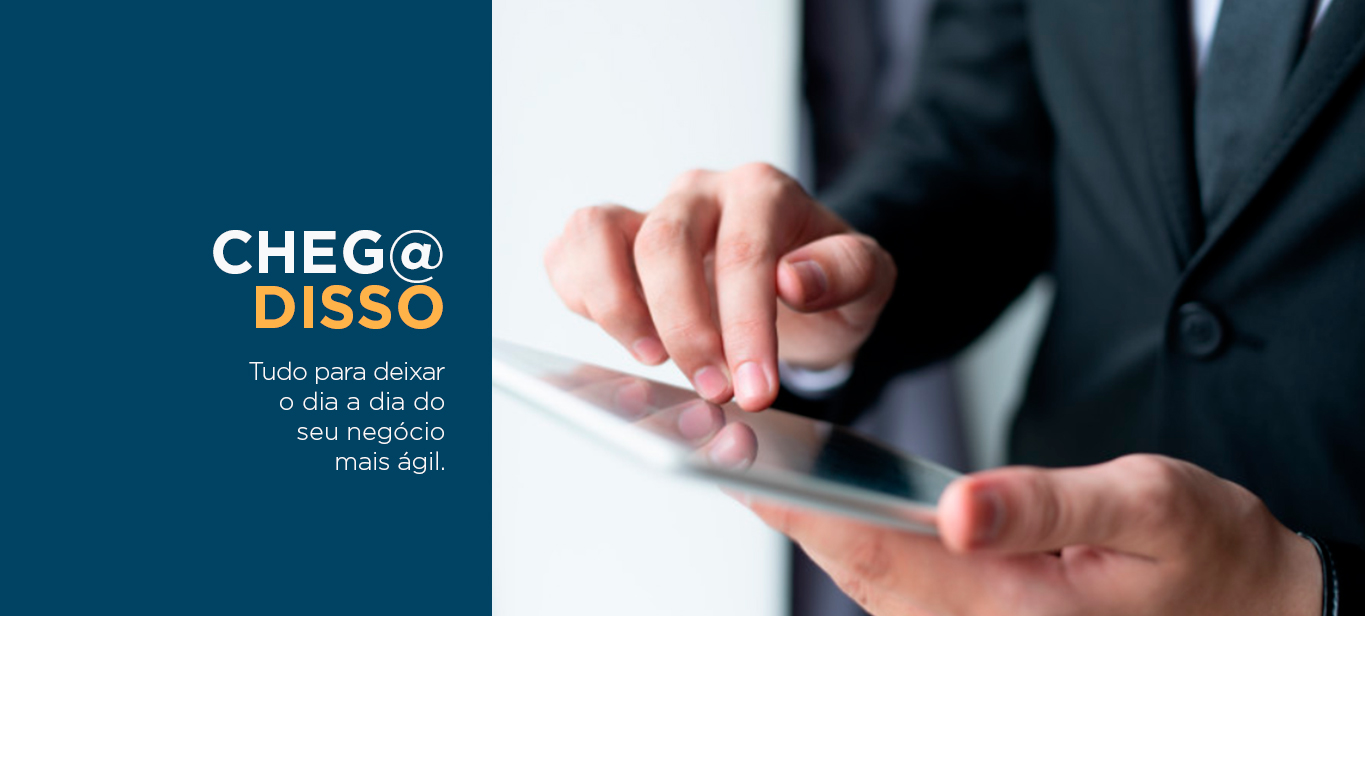
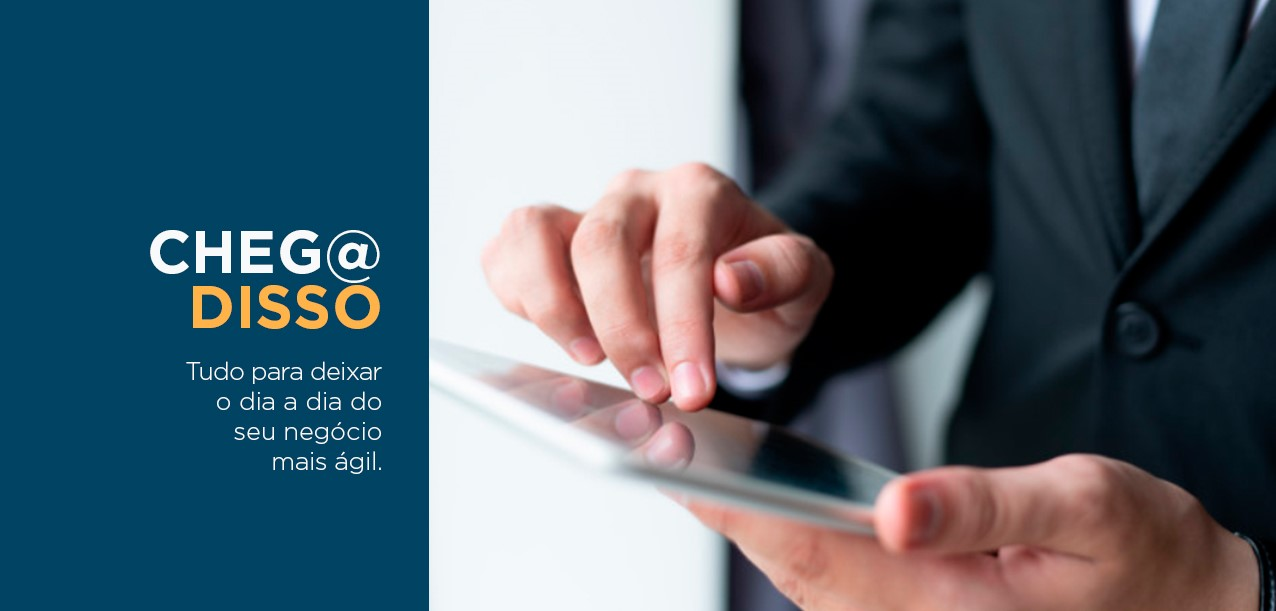
Criação
colocando foot, e menu no site

diff --git a/blog/src/App.css b/blog/src/App.css
@@ -7,7 +7,7 @@ html, body{
 }
 
 header {
-  background-image: url("https://i.imgur.com/WYjeQ9x.jpg");
+  background-image: url("https://i.imgur.com/Je78Y8X.jpg");
   width: 100%;
   height: 700px;
   margin-left: auto;
@@ -26,25 +26,27 @@ header {
   width: 100%;
   height: 40px;
   text-transform: uppercase;
+  color: #13477B;
 }
 
 #titulo {
   position: absolute;
-  color: #13477B;
   right: 75%;
   top:10px;
 }
 #categoria{
   position: absolute;
-  font-size: 15px;
-  top: 15px;
-  right: 45%;
+  font-size: 12px;
+  font-weight: bolder;
+  top: 12px;
+  right: 50%;
 }
 #contato{
   position: absolute;
-  font-size: 15px;
-  top: 15px;
-  right: 30%;
+  font-size: 12px;
+  font-weight: bolder;
+  top: 12px;
+  right: 40%;
 }
 
 form{
@@ -80,20 +82,70 @@ form{
 }
 
 .footer{
-  background-color: #13477B;
+  background-color: #014363;
   width: 100%;
-  height: 150px;
+  height: 130px;
   text-align: center;
-  position: absolute;
+  position: relative;
   bottom: 0;
 }
 
 .footer .titulo {
-  color:#ffa64d;
-  padding: 15px;
+  color:#e5a434;
+  padding: 15px 0 5px 0;
   text-transform: uppercase;
   font-weight: bold;
-  font-size: 17px;
+  font-size: 20px;
+}
+.footer .info{
+  color: white;
+}
+.footer .info span {
+  text-transform: uppercase;
+  font-weight: bold;
+  font-size: 10px;
+  padding: 0 5px;
+}
+
+.footer .copyr {
+  width: 100%;
+  position: absolute;
+  bottom: 5px;
+  font-size: 10px;
+  font-weight: bold;
+  color: white;
+}
+
+.menu{
+  text-align: left;
+  width: 180px;
+  background-color: #014363;
+  border: black solid 2px;
+  position: relative;
+  margin-left: auto;
+  margin-right: 0;
+  margin-top: 0;
+}
+
+.menu .menu1{
+  padding: 10px 20px 0 20px;
+}
+
+.menu .menu2{
+  padding: 10px 20px 100px 20px;
+}
+
+.menu p{
+  margin: 5px;
+  color: white;
+  font-size: 10px;
+  font-weight: bold;
+}
+
+.menu .menutitulo {
+  color: #e5a434;
+  font-size: 15px;
+  text-transform: uppercase;
 }
 
 /* Para casos de smartphones */

diff --git a/blog/src/menu.js b/blog/src/menu.js
@@ -1,0 +1,33 @@
+import React, {Component} from 'react';
+
+class Menu extends Component {
+    render(){
+        return(
+            <div className="menu">
+                <div className="menu1">
+                    <p className="menutitulo">Categorias</p>
+                    <p>Na mídia</p>
+                    <p>Aprenda</p>
+                    <p>Inspire-se</p>
+                </div>
+                <div className="menu2">
+                    <p className="menutitulo">Arquivo</p>
+                    <p>Janeiro</p>
+                    <p>Fevereiro</p>
+                    <p>Março</p>
+                    <p>Abril</p>
+                    <p>Maio</p>
+                    <p>Junho</p>
+                    <p>Julho</p>
+                    <p>Agosto</p>
+                    <p>Setembro</p>
+                    <p>Outubro</p>
+                    <p>Novembro</p>
+                    <p>Dezembro</p>
+                </div>
+            </div>
+        )
+    }
+}
+
+export default Menu;

diff --git a/blog/src/footer.js b/blog/src/footer.js
@@ -6,9 +6,9 @@ class Footer extends Component {
             <div className="footer">
                 <div className="titulo">Chega disso</div>
                 <div className="info">
-                    <a>Sobre</a>
-                    <a>Equipe</a>
-                    <a>Contato</a>
+                    <span>Sobre</span>
+                    <span>Equipe</span>
+                    <span>Contato</span>
                 </div>
                 <div className="copyr"> Copyright &copy; - Chega Disso - Todos os direitos reservados</div>
             </div>

diff --git a/blog/src/home.js b/blog/src/home.js
@@ -3,6 +3,7 @@ import React, {Component} from "react";
 import Header from './header';
 import Form from './form';
 import Footer from './footer';
+import Menu from './menu';
 
 class Home extends Component{
     render(){
@@ -10,6 +11,7 @@ class Home extends Component{
             <div>
                 <Header/>
                 <Form/>
+                <Menu/>
                 <Footer/>
             </div>
         )
